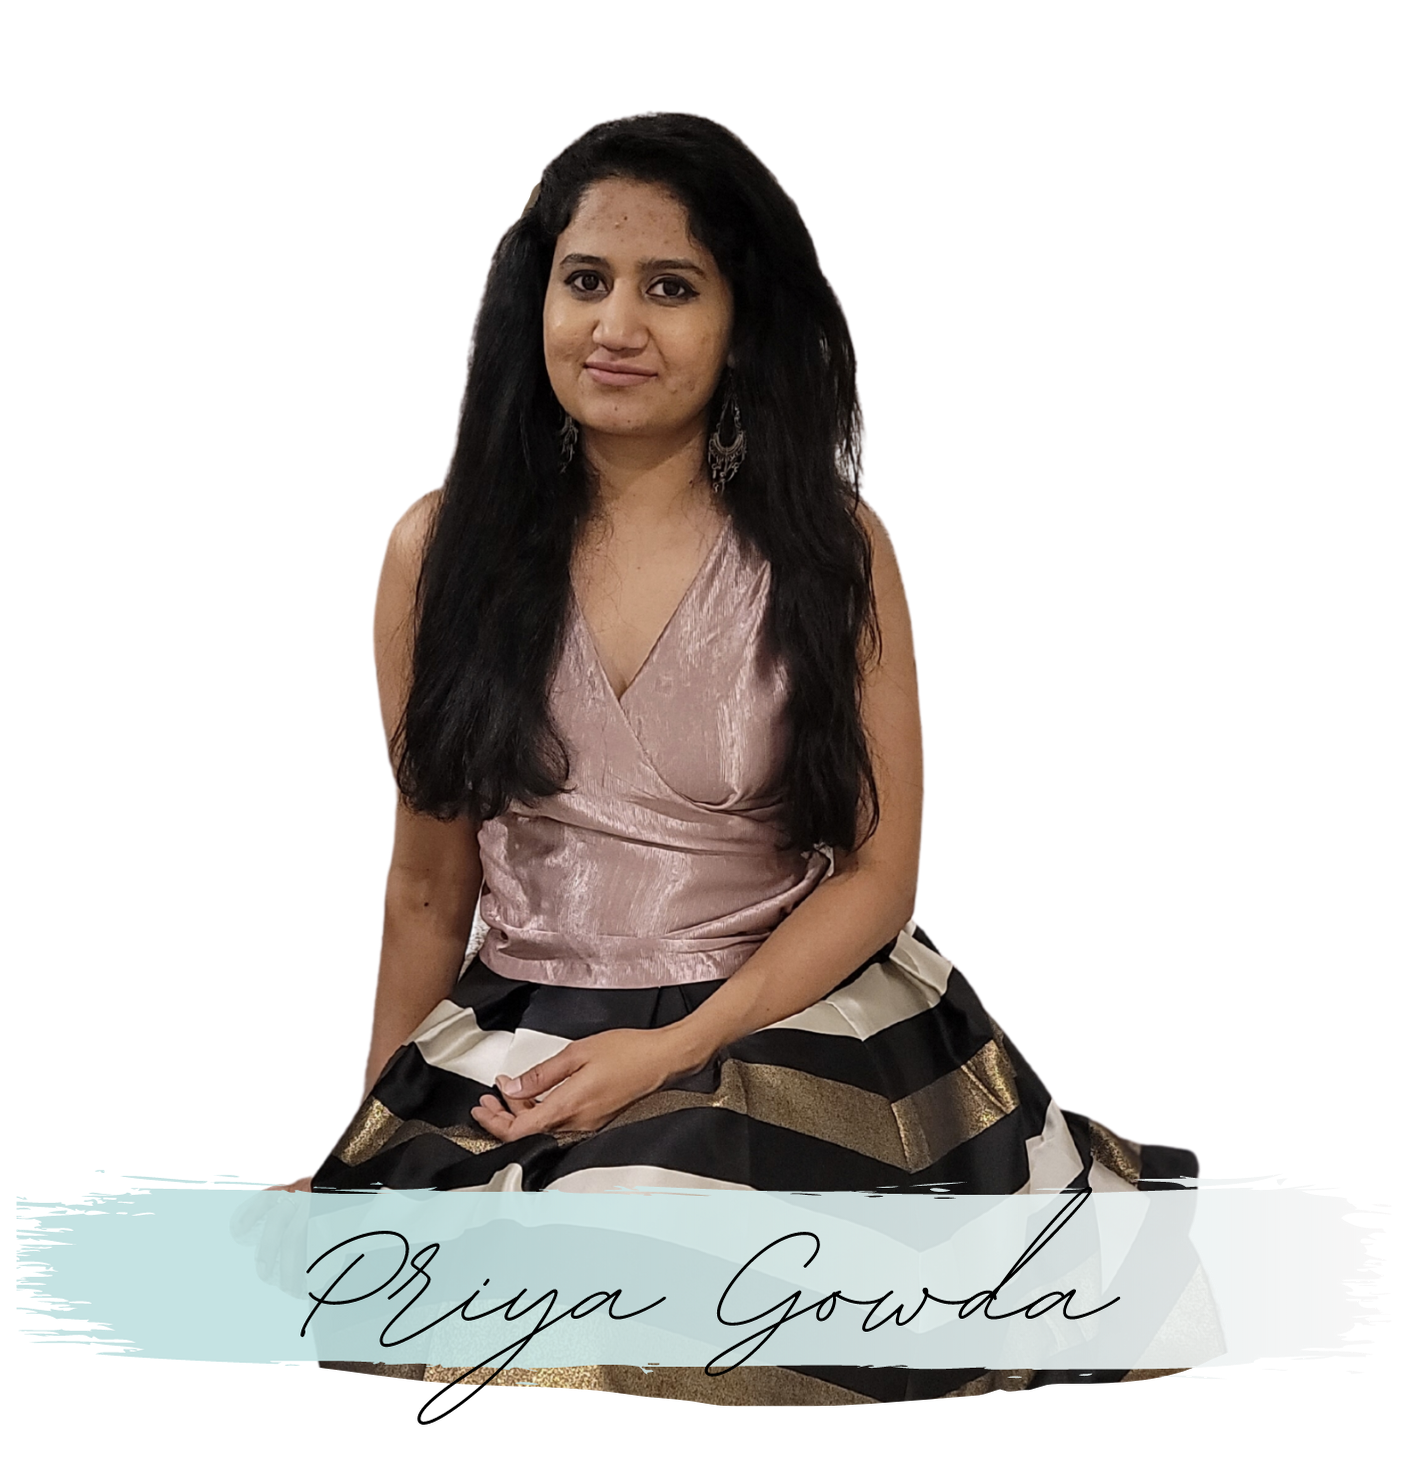
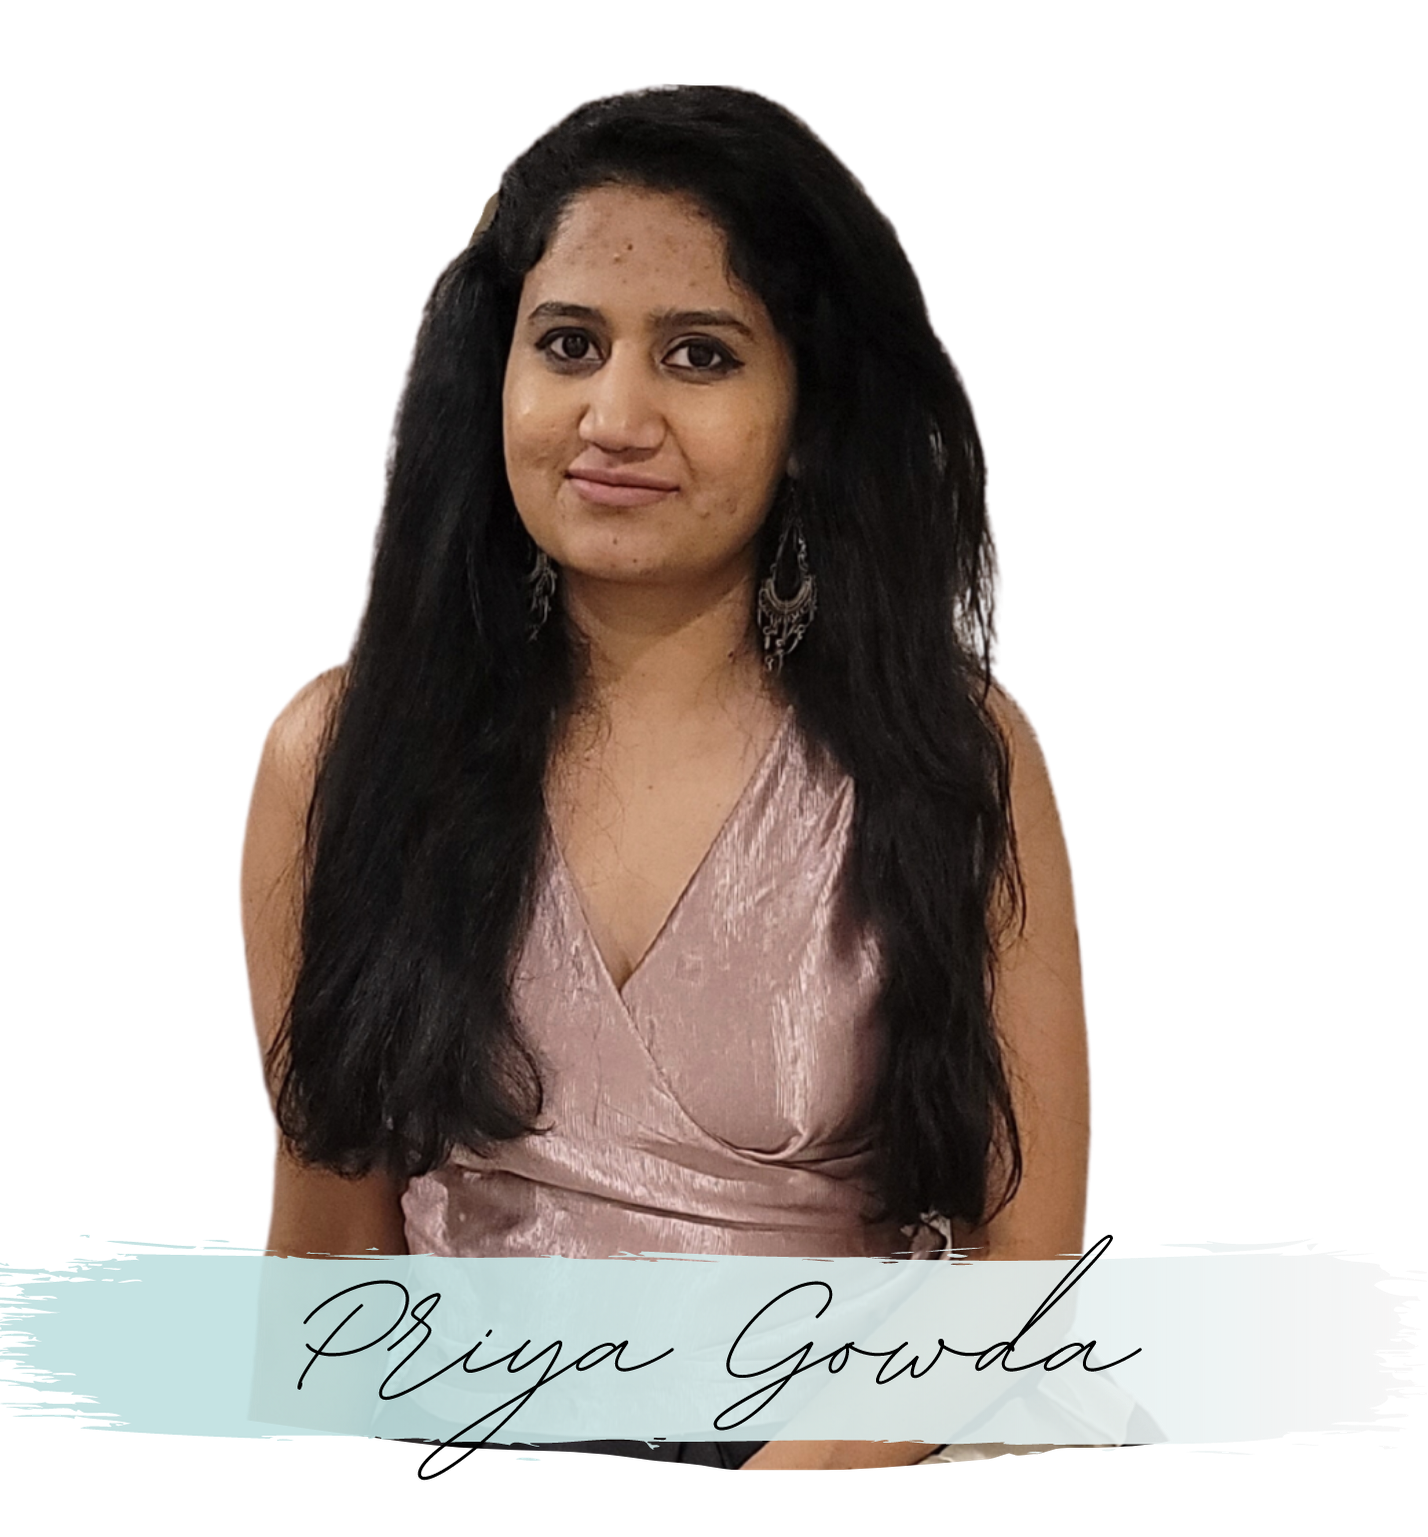
Update About Page(Pic)
Update About Page(Pic)

Changed region(s): [[0.0, 0.0309, 0.8688, 0.9877]]

diff --git a/about.html b/about.html
@@ -62,12 +62,10 @@
         <h1>About me</h1>
         <div class='row'>
           <div class='column col-md-4 col-lg-4'>
-            <p>
             <picture>
               <source srcset="img/profile_1x.png" media="(max-width:767px)">
               <img src="img/profile_2x.png" alt="Priya profile pic">
             </picture>
-          </p>
           </div>
           <div class='column col-md-8 col-lg-8'>
             <p>
